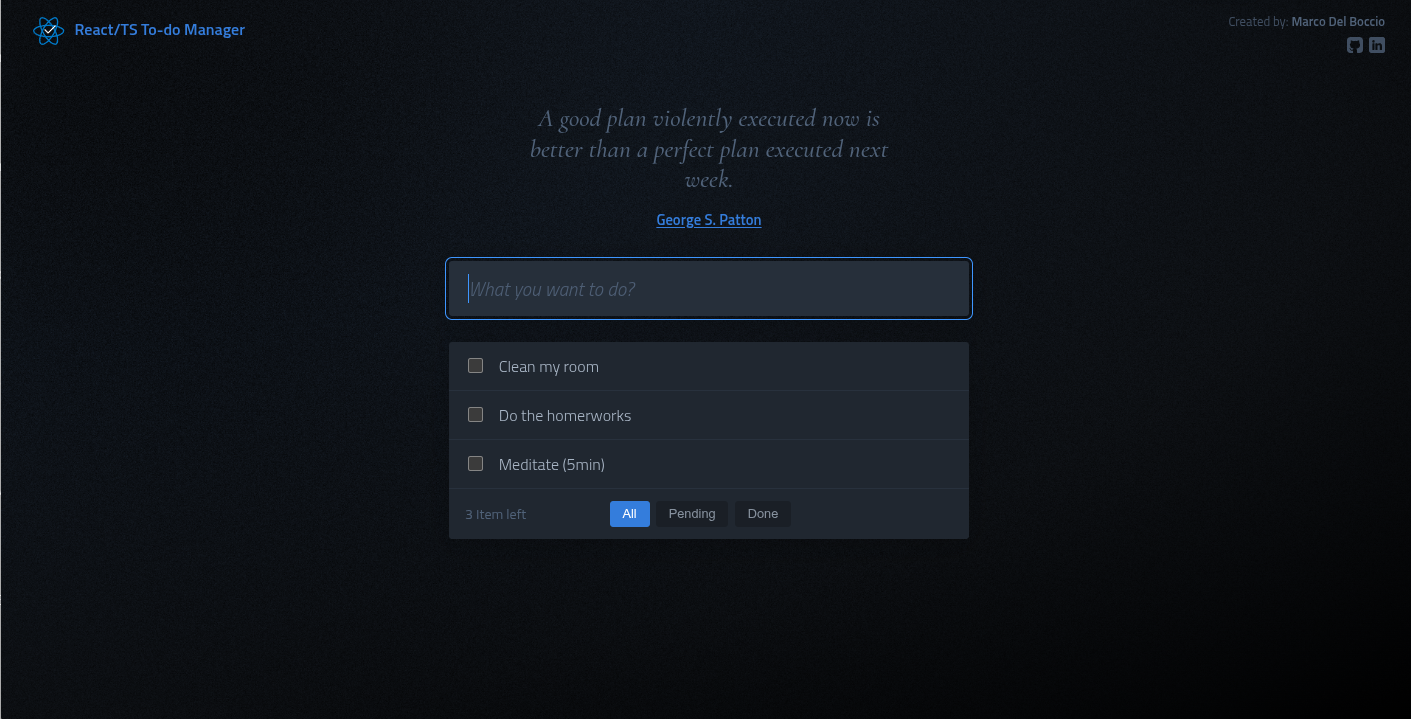
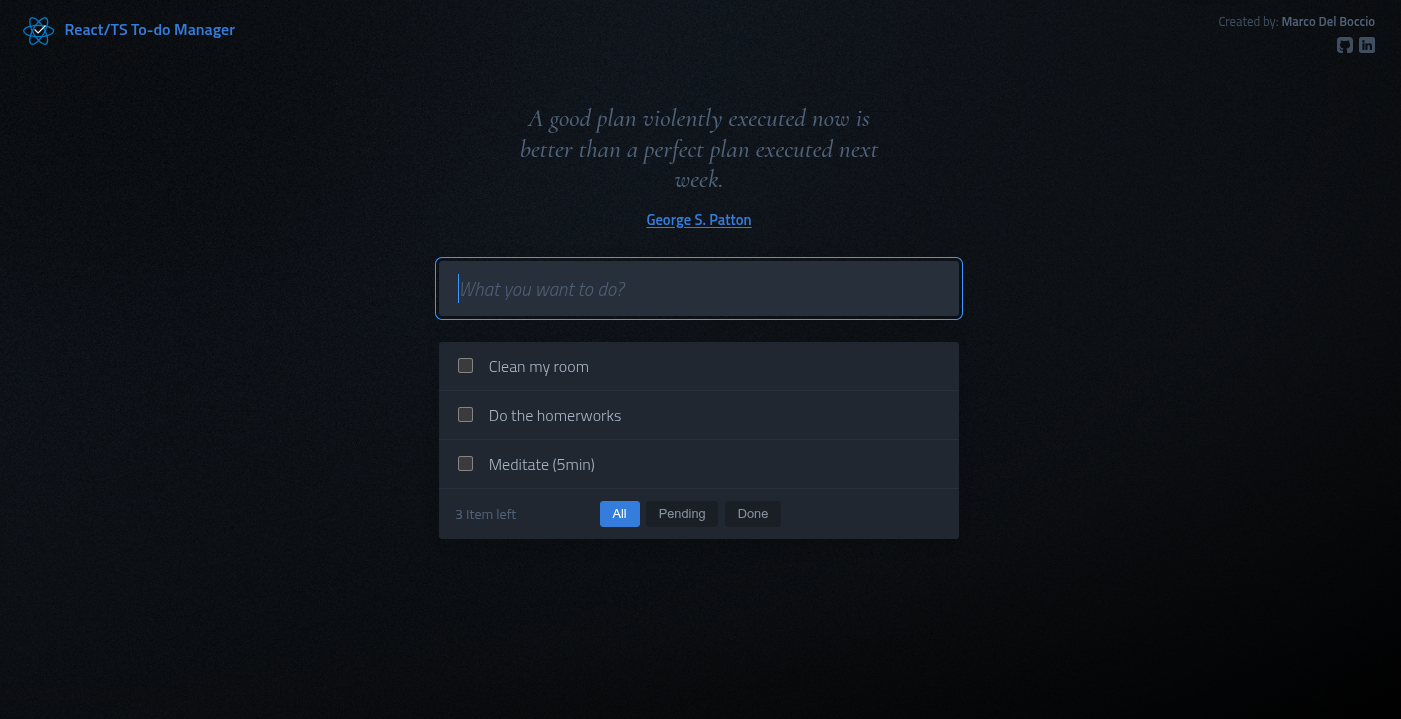
UI: Refactoring styles

diff --git a/src/scss/main.scss b/src/scss/main.scss
@@ -1,47 +1,60 @@
+// Base
 @use './base/colors' as *;
 @use './base/typography' as *;
 
-// components
+// Components
 @use './components/Header.scss' as *;
 @use './components/DailyQuote.scss' as *;
 @use './components/TodoCreate.scss' as *;
 @use './components/TodoList.scss' as *;
 @use './components/TodoControls.scss' as *;
 
+// Normalize
 * {
   box-sizing: border-box;
   padding: 0;
   margin: 0;
 }
 
-html {
+html,
+body {
   width: 100%;
   min-height: 100dvh;
 }
+
+// Styles
 
 body {
   position: relative;
 
-  font-family: $font-primary;
-  line-height: 1;
+  display: flex;
+  flex-direction: column;
+
   color-scheme: light dark;
   accent-color: hsl($hue-primary, 80%, 50%);
 
-  width: 100%;
-  min-height: 100dvh;
+  font-family: $font-primary;
+  line-height: 1;
 
-  background: $color-neutral-1300;
+  background-color: $color-neutral-1300;
+}
+
+body::before {
+  position: fixed;
+  inset: 0;
+  content: '';
+  z-index: -20;
+
   background: radial-gradient(
     at left top,
     $color-neutral-1250,
-    hsl($hue-primary, 28%, 12%),
-    $color-neutral-1300 70%,
-    $color-neutral-1400
+    hsl($hue-primary, 32%, 12%),
+    $color-neutral-1300
   );
 }
 
 body::after {
-  position: absolute;
+  position: fixed;
   inset: 0;
   content: '';
   z-index: -10;
@@ -49,12 +62,9 @@ body::after {
   background: url('/img/background-texture.webp');
   background-size: cover;
 
+  opacity: 0.6;
+  pointer-events: none;
   mix-blend-mode: multiply;
-}
-
-body {
-  display: flex;
-  flex-direction: column;
 }
 
 .todo-container {
@@ -64,12 +74,12 @@ body {
   flex-direction: column;
 
   max-width: 520px;
-
   margin: 2rem auto;
 
-  filter: drop-shadow(0 0.4rem 1rem hsl(0, 0%, 0%, 0.2));
+  filter: drop-shadow(0 0.4rem 0.8rem hsl(0, 0%, 0%, 0.2));
 }
 
+// Error de mensaje "global"
 .error-message {
   position: absolute;
   top: -1.6rem;

diff --git a/src/scss/components/DailyQuote.scss b/src/scss/components/DailyQuote.scss
@@ -1,6 +1,13 @@
 @use '../base/typography' as *;
 @use '../base/colors' as *;
 
+// Quote content
+$quote-font-family: $font-secondary;
+$quote-text-color: $color-neutral-900;
+// Author
+$author-text-color: $color-primary-600;
+$author-font-family: $font-primary;
+
 .daily-quote {
   position: relative;
 
@@ -19,45 +26,44 @@
   isolation: isolate;
 
   p {
-    width: 72%;
+    // width: 72%;
 
-    font-family: $font-secondary;
+    font-family: $quote-font-family;
     font-size: 1.6rem;
     font-weight: 500;
     font-style: italic;
-    line-height: 1.2;
+    line-height: 1.25;
+    letter-spacing: 0.25px;
 
-    color: $color-neutral-900;
+    color: $quote-text-color;
   }
 
   a {
+    font-family: $author-font-family;
+    font-size: 0.92rem;
+    font-weight: 600;
     text-underline-offset: 2px;
-    // color: $color-neutral-900;
-    color: $color-primary-600;
+    color: $author-text-color;
+
+    cite {
+      font-style: normal;
+    }
 
     &:hover {
       filter: brightness(1.2);
     }
   }
 
-  cite {
-    font-family: $font-primary;
-    font-size: 0.92rem;
-    font-weight: 600;
-    font-style: normal;
+  &::after {
+    position: absolute;
+    z-index: -10;
+    inset: 1rem 20%;
+    content: '';
 
-    // color: $color-neutral-1100;
+    filter: blur(2rem);
+    opacity: 0.2;
+    border-radius: 9999px;
+
+    background-color: $color-neutral-1400;
   }
-
-  // &::after {
-  //   position: absolute;
-  //   inset: 1.6rem;
-  //   content: '';
-  //   z-index: -10;
-
-  //   filter: blur(2rem);
-  //   opacity: 0.2;
-
-  //   background-color: $color-neutral-1400;
-  // }
 }

diff --git a/src/scss/base/_colors.scss b/src/scss/base/_colors.scss
@@ -1,5 +1,7 @@
-$hue-primary: 216;
+//  Global hue
+$hue-primary: 208;
 
+// Primary colors
 $color-primary-100: hsl($hue-primary, 100%, 96%);
 $color-primary-200: hsl($hue-primary, 100%, 88%);
 $color-primary-300: hsl($hue-primary, 88%, 80%);
@@ -9,20 +11,7 @@ $color-primary-600: hsl($hue-primary, 72%, 56%);
 $color-primary-700: hsl($hue-primary, 40%, 48%);
 $color-primary-800: hsl($hue-primary, 40%, 40%);
 
-// --- Colores Secundarios (Basados en un Azul) ---
-// $hue-primary: 216;
-
-// $color-primary-100: hsl($hue-primary, 80%, 94%);
-// $color-primary-200: hsl($hue-primary, 80%, 88%);
-// $color-primary-300: hsl($hue-primary, 80%, 81%);
-// $color-primary-400: hsl($hue-primary, 80%, 73%);
-// $color-primary-500: hsl($hue-primary, 80%, 66%);
-// $color-primary-600: hsl($hue-primary, 80%, 60%);
-// $color-primary-700: hsl($hue-primary, 80%, 55%);
-// $color-primary-800: hsl($hue-primary, 80%, 47%);
-// $color-primary-900: hsl($hue-primary, 80%, 39%);
-
-// --- Colores Neutrales (Grises, Blanco y Negro) ---
+// Neutral colors
 $color-neutral-100: hsl($hue-primary, 20%, 100%);
 $color-neutral-200: hsl($hue-primary, 20%, 92%);
 $color-neutral-300: hsl($hue-primary, 20%, 88%);
@@ -40,7 +29,7 @@ $color-neutral-1250: hsl($hue-primary, 20%, 12%);
 $color-neutral-1300: hsl($hue-primary, 20%, 8%);
 $color-neutral-1400: hsl($hue-primary, 20%, 0%);
 
-// --- Colores de Estado ---
+// --- State colors ---
 $color-success: hsl(120, 60%, 45%);
 $text-error: hsl(0, 72%, 64%);
 $color-error: hsl(0, 12%, 12%);

diff --git a/src/scss/components/TodoList.scss b/src/scss/components/TodoList.scss
@@ -60,7 +60,7 @@
 
       &__label {
         width: 100%;
-        padding: 1rem;
+        padding: 1.25rem 1rem;
 
         font-family: $font-primary;
         font-size: 1rem;
